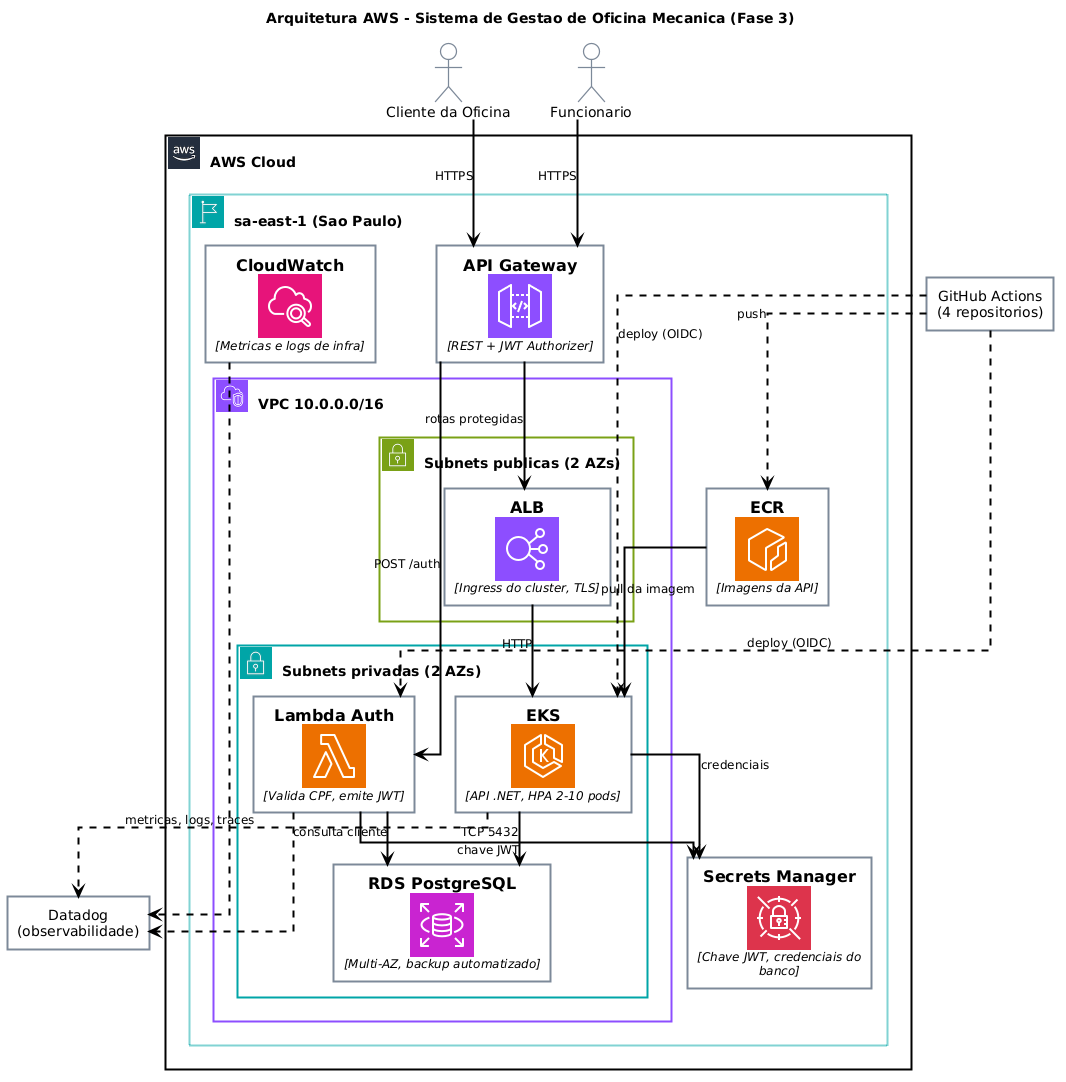
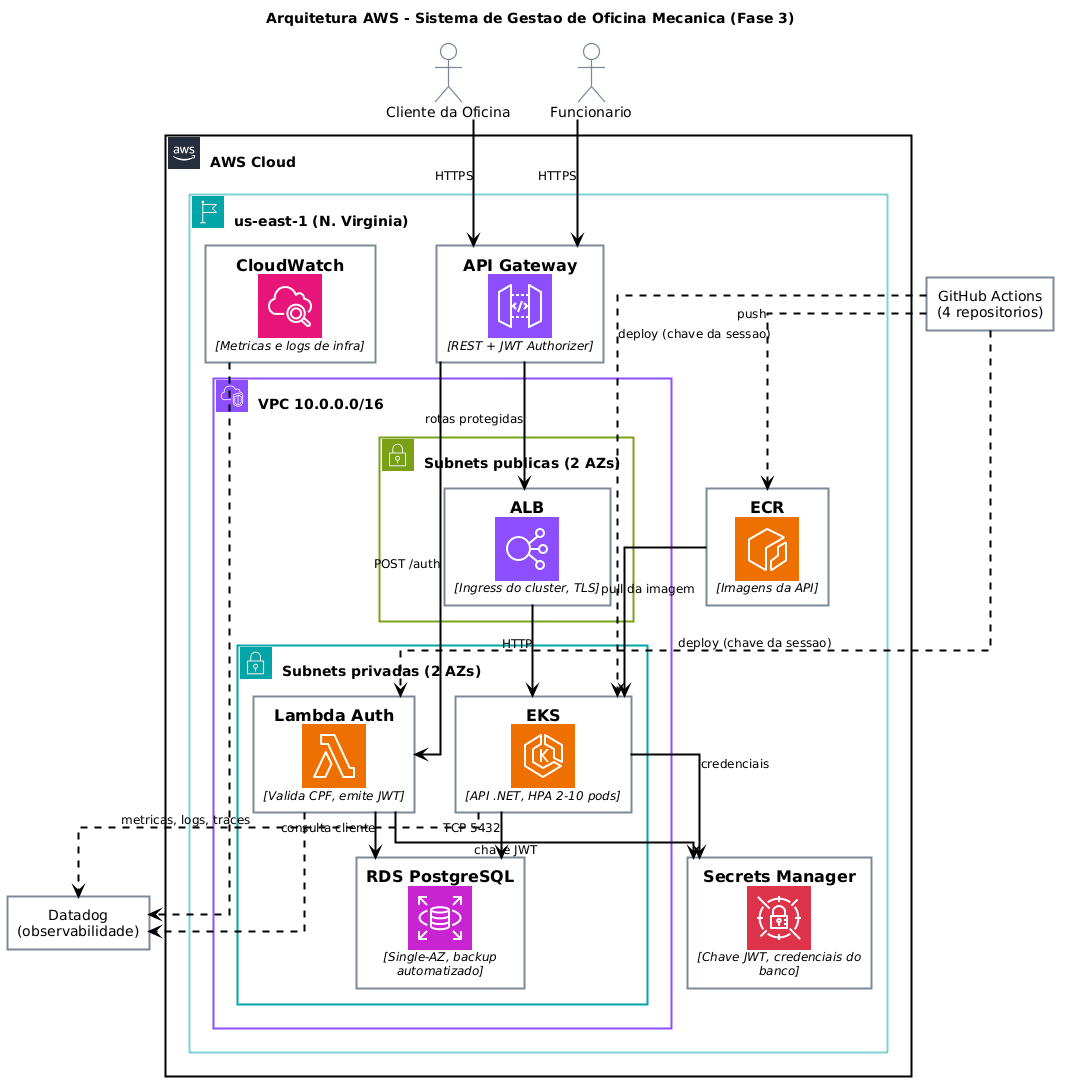
docs: ajusta RFC-0001 as restricoes do AWS Academy Learner Lab
Verificado na conta: regiao us-east-1 sem escolha, iam:CreateOpenIDConnectProvider
negado e apenas LabRole disponivel.

Consequencias registradas: OIDC inviavel (pipelines usarao credenciais de sessao),
menor privilegio impossivel, sessao de 4h afeta o entregavel de deploys ativos e
o orcamento de USD 100 nao comporta EKS ligado durante a fase.

Corrige regiao no diagrama, troca RDS para Single-AZ e ajusta o rotulo dos
pipelines, que nao usam mais OIDC.

Refs #56, #54, #59

diff --git a/docs/rfcs/0001-escolha-da-nuvem.md b/docs/rfcs/0001-escolha-da-nuvem.md
@@ -38,9 +38,58 @@ Sem a decisão registrada, nenhum Terraform pode ser escrito — e hoje **10 iss
 | Registro de imagens | Amazon ECR |
 | Segredos | AWS Secrets Manager |
 | IaC | Terraform, state remoto em S3 com lock em DynamoDB |
-| Região | `sa-east-1` (São Paulo) |
+| Região | `us-east-1` (imposta pelo ambiente) |
 
 A arquitetura resultante está desenhada em [`docs/diagrams/C4_04_AWS_Deployment_Diagram.puml`](../diagrams/C4_04_AWS_Deployment_Diagram.puml).
+
+## Restrições do ambiente: AWS Academy Learner Lab
+
+A conta usada é um **AWS Academy Learner Lab**, e isso impõe limites que alteram a arquitetura. Verificado na conta em 24/08/2026:
+
+| Verificação | Resultado |
+|---|---|
+| Região | `us-east-1`, sem escolha |
+| Identidade | `assumed-role/voclabs/...` — role temporária de sessão |
+| `iam:CreateOpenIDConnectProvider` | **AccessDenied** |
+| `LabRole` | existe e é a única role utilizável |
+
+### Consequências
+
+**1. OIDC para os pipelines é inviável.** A issue [#54](https://github.com/tech-challenge-grupo-160/tech-challenge-oficina-mecanica/issues/54) previa federação de identidade entre GitHub Actions e AWS, sem chave estática. O ambiente bloqueia a criação do provedor OIDC e de roles.
+
+**Alternativa adotada:** os pipelines usam as **credenciais temporárias da sessão do lab**, cadastradas como secrets do repositório e renovadas a cada sessão. Isso é pior em segurança e exige passo manual — está registrado como **limitação conhecida do ambiente**, não como escolha de arquitetura.
+
+**2. Menor privilégio é impossível.** A issue [#59](https://github.com/tech-challenge-grupo-160/tech-challenge-oficina-mecanica/issues/59) previa roles específicas por componente. Com apenas a `LabRole` disponível, Lambda, cluster e pipelines compartilham a mesma identidade — o oposto de menor privilégio. O Terraform deve **referenciar** a role existente via `data`, nunca criar.
+
+> Ao referenciar a `LabRole`, monte o ARN com `data.aws_caller_identity.current.account_id` em vez de escrever o número da conta. Os quatro repositórios são **públicos**.
+
+**3. Sessão de 4 horas.** O ambiente dorme ao fim da sessão. O entregável pede *"Links para os deploys ativos"* — esses links estarão fora do ar fora da janela de uso. A gravação do vídeo precisa acontecer com a sessão ativa, e a limitação deve ser declarada na entrega.
+
+**4. Orçamento de US$ 100 para toda a disciplina.**
+
+O control plane do EKS cobra US$ 0,10/hora **enquanto o cluster existir** — ele não é suspenso junto com a sessão, diferente das instâncias EC2:
+
+| Cenário | Custo só do control plane |
+|---|---|
+| Cluster de pé por 21 dias | **US$ 50,40** — metade do crédito |
+| Criado e destruído a cada sessão de 8h | ~US$ 17 |
+
+Somados nodes, RDS, NAT Gateway (~US$ 32/mês) e ALB, **deixar o cluster ligado esgota o crédito antes da entrega**.
+
+### Decisões decorrentes
+
+- **RDS Single-AZ**, não Multi-AZ. Dobrar o custo do banco não cabe no orçamento.
+- **Sem NAT Gateway**; nodes em subnet pública com security group restritivo. Menos seguro, e registrado como tal.
+- **Cluster criado tarde**, próximo à gravação do vídeo, e destruído logo depois. `terraform destroy` ao fim de cada sessão de trabalho.
+- **`LabRole` em todos os componentes**, referenciada e nunca criada.
+
+### Uma alternativa que o enunciado permite
+
+A lista de infraestrutura obrigatória pede "Banco de Dados **Gerenciado**" mas, para Kubernetes, apenas "Cluster Kubernetes **com escalabilidade**" — sem exigir que seja gerenciado.
+
+Um cluster auto-gerenciado (k3s ou kubeadm) em EC2, com HPA e autoscaling de nodes, atenderia à letra do requisito, rodaria em instâncias que o lab suspende junto com a sessão e **eliminaria os US$ 0,10/hora contínuos**.
+
+É uma leitura defensável do enunciado, mas é uma aposta: EKS é a resposta que o avaliador provavelmente espera. **Recomenda-se confirmar com o professor antes de decidir.**
 
 ## Alternativas avaliadas
 
@@ -62,17 +111,18 @@ Se esta RFC estivesse sendo escrita antes da implementação, a comparação mer
 
 **Cronograma:** destrava [#57](https://github.com/tech-challenge-grupo-160/tech-challenge-oficina-mecanica/issues/57), [#58](https://github.com/tech-challenge-grupo-160/tech-challenge-oficina-mecanica/issues/58), [#59](https://github.com/tech-challenge-grupo-160/tech-challenge-oficina-mecanica/issues/59), [#60](https://github.com/tech-challenge-grupo-160/tech-challenge-oficina-mecanica/issues/60) e [#61](https://github.com/tech-challenge-grupo-160/tech-challenge-oficina-mecanica/issues/61), e por consequência o épico de observabilidade inteiro.
 
-**Custo:** o EKS cobra US$ 0,10/hora pelo control plane (~US$ 72/mês) e **não tem camada gratuita**. É o item dominante. Somados nodes t3.medium, RDS db.t3.micro Multi-AZ, NAT Gateway e ALB, a ordem de grandeza é de **algumas dezenas a pouco mais de cem dólares por mês**.
+**Custo:** ver a seção de restrições do ambiente. Orçamento total de US$ 100, com o control plane do EKS consumindo até metade dele se o cluster ficar de pé durante a fase.
 
-> ⚠ **Este número precisa ser confirmado antes do `apply`.** Não foi validado no Pricing Calculator, e o grupo deve verificar qual conta será usada e se há créditos disponíveis. Um cluster EKS esquecido ligado após a entrega continua cobrando.
+> ⚠ **Confirmar no Pricing Calculator antes do primeiro `apply`.** Um cluster EKS esquecido ligado continua cobrando mesmo com a sessão do lab encerrada.
 
 **Segurança:** RDS e Lambda em subnets privadas; segredos no Secrets Manager; pipelines autenticando por OIDC, sem chave estática.
 
 ## Questões em aberto
 
-- **Qual conta AWS será usada** e quem responde pela fatura
-- **Existem créditos** de estudante ou promocionais disponíveis
-- **Quem destrói a infraestrutura** após a entrega, e em que data
+- ~~Qual conta AWS será usada~~ — **resolvido:** AWS Academy Learner Lab, `us-east-1`
+- ~~Existem créditos disponíveis~~ — **resolvido:** US$ 100 para toda a disciplina
+- **Quem roda `terraform destroy`** ao fim de cada sessão, para o crédito não vazar
+- **EKS ou cluster auto-gerenciado** — decisão de custo descrita acima, vale confirmar com o professor
 - **ALB ou NLB** na entrada do cluster: como o API Gateway já roteia e valida o JWT, parte do que o ALB oferece fica redundante, e o VPC Link do API Gateway exige NLB. Pode ser decidido na issue [#64](https://github.com/tech-challenge-grupo-160/tech-challenge-oficina-mecanica/issues/64) sem bloquear esta RFC
 
 ## Decisão
